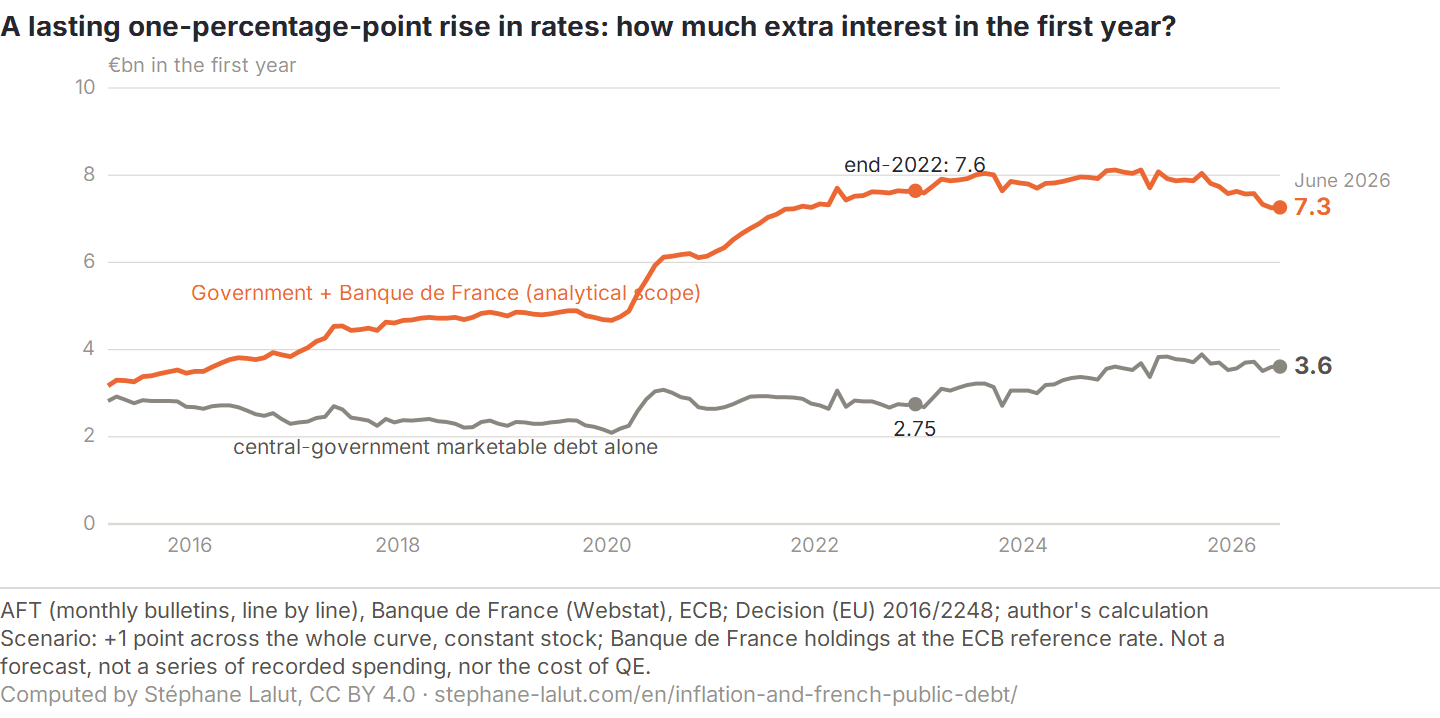
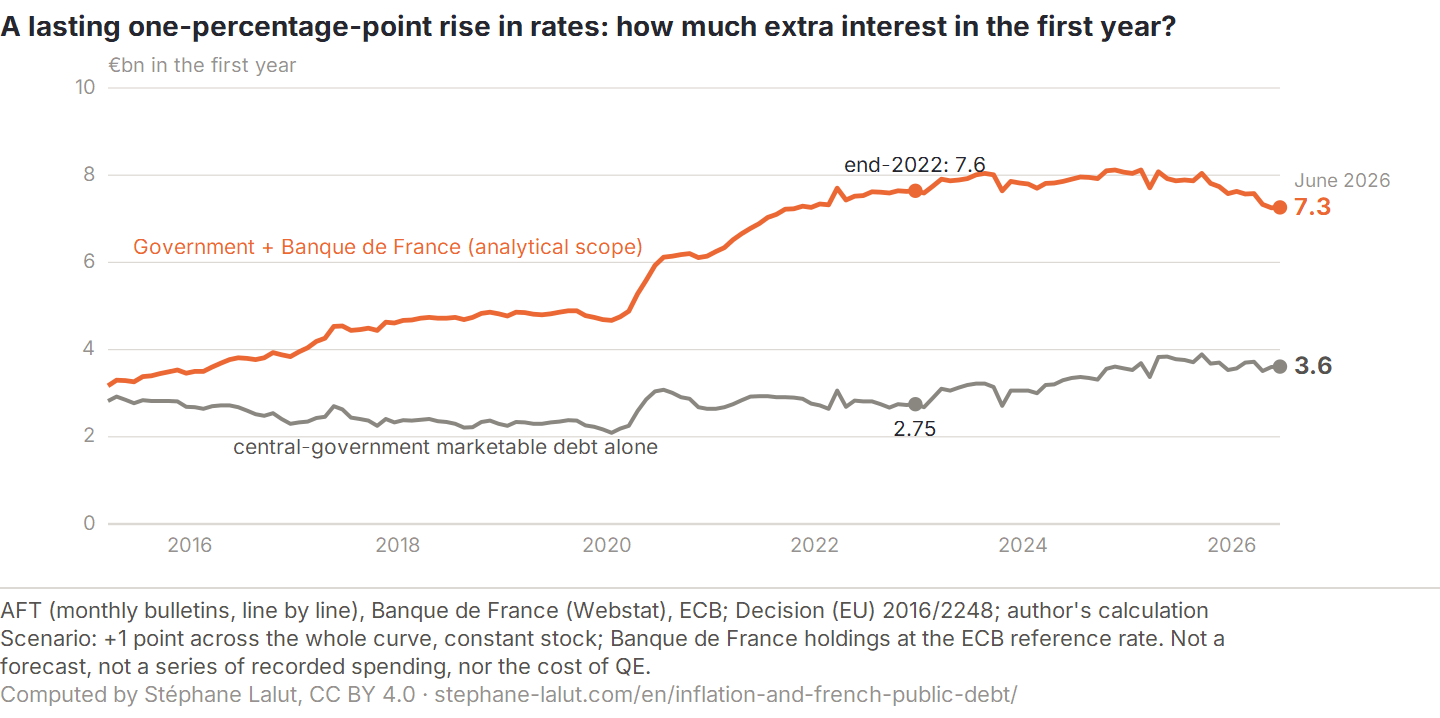
fix(inflation): libelle « Etat + Banque de France » de la figure des achats degage de la courbe (FR et EN) -- placement controle par le generateur
Demande de l'auteur (12/10) : le dernier mot mordait sur la courbe. Le generateur cherche la position la plus proche ou toute
la largeur du libelle reste au-dessus de la courbe (marge 5 px), a droite d'abord, puis a gauche, et s'arrete sinon. A droite,
aucune position ne degage (la courbe remonte des 2020) : decalage de 33 px vers la gauche (FR), 29 px vers la gauche et 23 px
plus haut (EN). La garde a mordu des sa premiere execution, sur le libelle anglais.

Changed region(s): [[0.125, 0.3983, 0.5, 0.429], [0.0938, 0.337, 0.4375, 0.3677]]

diff --git a/scripts/update_dette_inflation.py b/scripts/update_dette_inflation.py
@@ -498,7 +498,22 @@ def fig_achats(q, Aff, lang):
         e.append('<path d="%s" fill="none" stroke="%s" stroke-width="%s" stroke-linejoin="round"/>' % (d, col, larg))
     # noms posés sur les séries, au milieu de la période d'achats (2018) : la consolidée au-dessus, le marché en dessous
     r18 = min(serie, key=lambda r: abs(mois(r[0]) - 2018.5))
-    e.append('<text x="%.1f" y="%.1f" font-size="10.5" fill="%s" text-anchor="middle">%s</text>' % (X(mois(r18[0])), Y(r18[2]) - 9, ORANGE, esc(t["cons"])))
+    # Libellé de la consolidée posé AU-DESSUS de sa courbe sans la toucher (auteur, 12/10/2026 : « analyse) » mordait sur la
+    # remontée de 2020). Départ au point de 2018, recherche vers la droite d'abord (demande de l'auteur), puis vers la gauche :
+    # toute la largeur estimée du texte doit rester au-dessus de la courbe, jambages compris, avec une marge. Sinon, arrêt.
+    yc, larg_c = Y(r18[2]) - 9, 0.53 * 10.5 * len(t["cons"])
+    pts = [(X(mois(r[0])), Y(r[2])) for r in serie]
+    def degage(xc, y):
+        g, d = xc - larg_c / 2 - 3, xc + larg_c / 2 + 3
+        return g >= X0 and d <= X1 and y - 11 > TOP and all(py > y + 5 for px, py in pts if g <= px <= d)
+    x18 = X(mois(r18[0]))
+    # vers la droite d'abord (demande de l'auteur), avec la plus petite hausse (0 à 24 px) puis le plus petit décalage ;
+    # vers la gauche seulement si aucune position à droite ne dégage la courbe
+    xc, yc = next(((x18 + s * k, yc - j) for s in (1, -1) for j in range(0, 25) for k in range(0, 121)
+                   if degage(x18 + s * k, yc - j)), (None, yc))
+    if xc is None:
+        fail("figure achats : aucune position du libelle « %s » ne degage la courbe" % t["cons"])
+    e.append('<text x="%.1f" y="%.1f" font-size="10.5" fill="%s" text-anchor="middle">%s</text>' % (xc, yc, ORANGE, esc(t["cons"])))
     e.append('<text x="%.1f" y="%.1f" font-size="10.5" fill="%s" text-anchor="middle">%s</text>' % (X(mois(r18[0])), Y(r18[1]) + 16, INK2, esc(t["marche"])))
     # jalon fin 2022 : date au-dessus du point consolidé, valeur du marché sous son point
     r22 = next(r for r in serie if r[0] == "2022-12-31")
